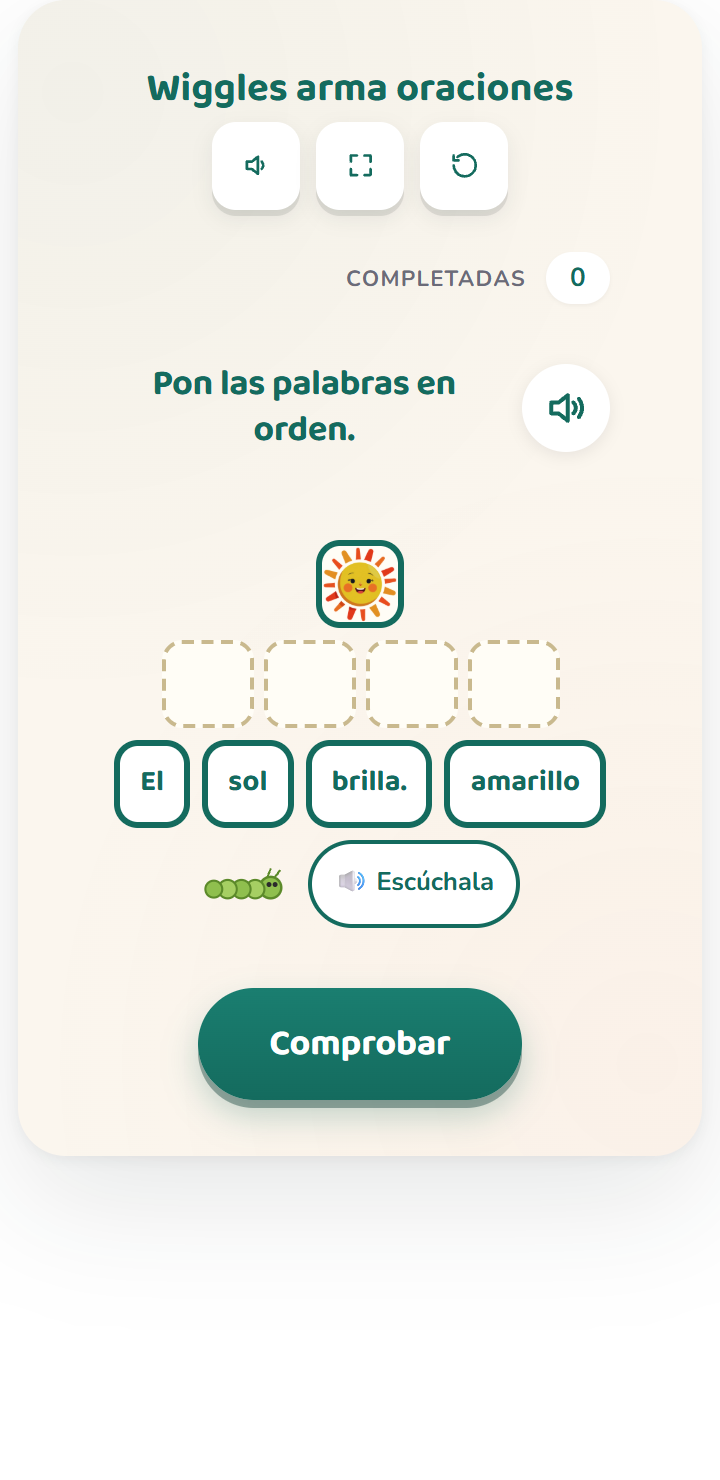
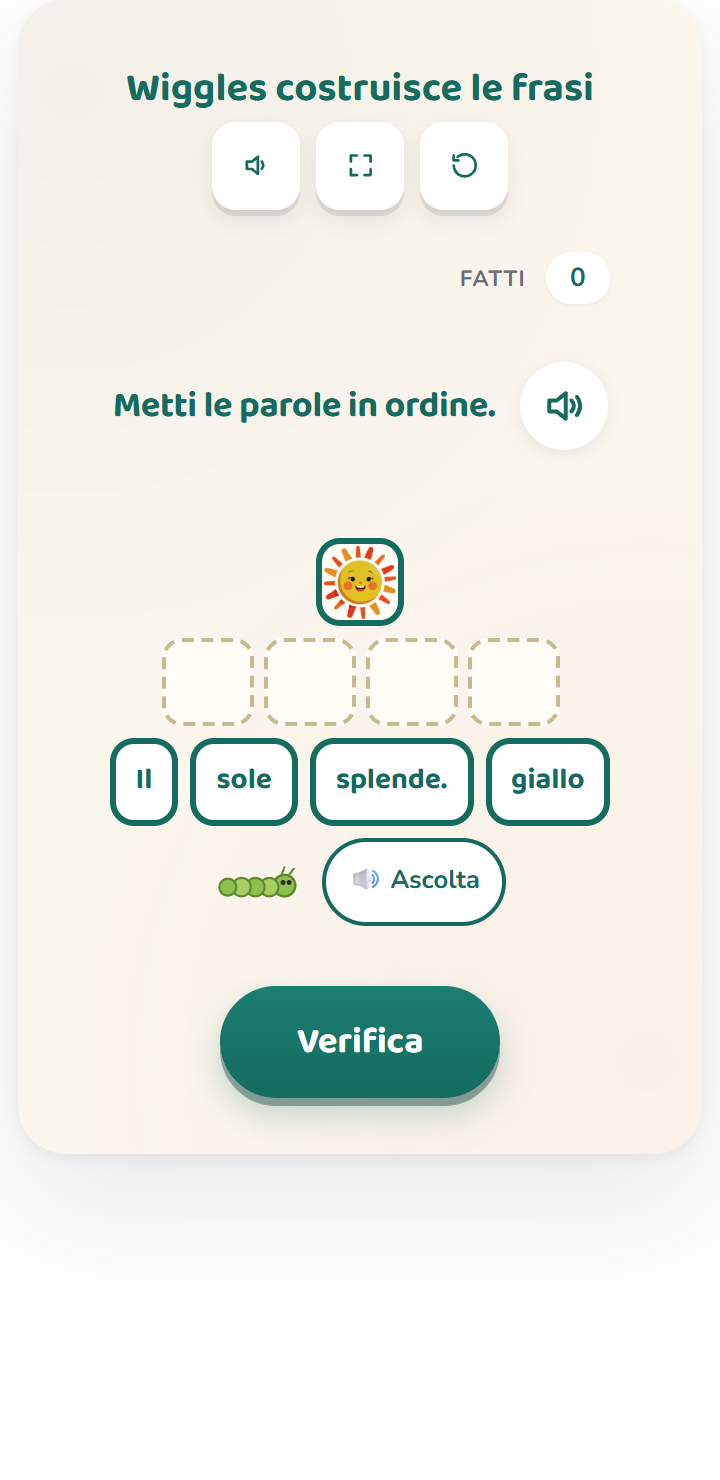
[FEATURE][I18N][IT] sentence-builder #23 — Wiggles costruisce le frasi (classe seconda)
Italian (it) second-batch fan-out #23 — sentence-builder.build-a-sentence.l-1-1-j,
the 3rd it LITERACY activity. Pure activity-layer fan-out over the existing
Sentence Builder engine (EN + de/es/fr/pt already live). Wiggles il bruco: the
child taps scrambled word-tiles into order to build a declarative sentence, then
Checks. Correct = placed order === canonical, DERIVED not stored.

Rebuilt for the Indicazioni nazionali (riflessione linguistica, classe seconda).
9 sentences, shape Articolo + Nome + Aggettivo + Verbo. (adjective AFTER the noun,
Romance order), node-eval GREEN (4 tiles, Il/La start, period on the verb).

⭐ Native it ensemble (K-3 pedagogue + linguist + SEO; pedagogue+linguist both 9/9):
- ENGINE-FORCED elision rule: tiles space-join, so «L'» + «autobus» would render
  «L' autobus» (wrong space). Every noun therefore takes a CLEAN full article
  (Il/La) — the bus is «Il pullman» (masc, clean Il, kid-known), NOT «L'autobus».
  Linguist confirmed the whole set is Lo/L'-free (sole→Il [s+vowel]; pesce→Il;
  fiore is masc→Il).
- pedagogue verb fix: bus «avanza» → «corre» (avanza too bureaucratic; corre vivid).
- gender agreement Articolo↔Nome↔Aggettivo correct throughout (giallo/bianca/rosso
  variable + agree; marrone/arancione/blu/verde/rosa/viola invariable); no adjacent
  color repeat; fiore correctly masc → «Il fiore viola».

GRADE = classe seconda (GRADE_OVERRIDE it:'2', mirrors de/fr/es/pt; systematic
[…]

diff --git a/frontend/app/[locale]/activities/[slug]/page.tsx b/frontend/app/[locale]/activities/[slug]/page.tsx
@@ -77,7 +77,7 @@ const GRADE_OVERRIDE: Record<string, Record<string, string>> = {
   'pond-juice.pour-measure.3-md-a-2': { de: '2', fr: '2', es: '2', pt: '2', it: '2' },      // Hohlmaße/Liter (whole-l 0-10, no ml) → DE Klasse 2 (ml/Umrechnung = Klasse 3); FR CE1 (le litre introduced CE1, mL/conversions = cycle 3); MX 2.º (el litro se introduce en 2.º; ml/conversiones = 3.º-4.º); PT 2º ano (o litro entra no 2º ano na BNCC EF02MA17 — estimar/medir/comparar capacidade; ml/conversões = 3º-4º); en Grade 3 unchanged. IT classe seconda: il litro / le misure di capacità (litri interi, leggere/stimare/confrontare, senza ml) = classe seconda nelle Indicazioni; ml/dl/cl, equivalenze, conversioni = classe terza-quarta. Strand Grandezas e medidas pelo auto-map (capacidade é grandeza pura) — SEM STRAND_OVERRIDE pt (it override a parte, sotto)
   'bundle-bot.bundle-machine.1-nbt-b-2-a': { de: '2', it: '2' },                   // two-digit Stellenwert (20-49, multiple tens) → DE Klasse 2 (Klasse 1 = ZR bis 20). IT classe SECONDA (pedagogue-decisive, GENUINE content boundary NOT the DE artifact): la classe 1ª italiana lavora i numeri ENTRO IL 20 (la decina si introduce proprio al confine, teens 11-19 = una decina + unità, AL PIÙ una decina); la classe 2ª = numeri entro il 100, valore posizionale (decine e unità, PLURALE), il cambio. bundle-bot costruisce 20-49 con 2-4 decine → classe seconda (coerente con #5 pv-regroup). Diverge da pt/es/fr (grado 1) per una ragione di CONTENUTO italiano, indipendente dall'artefatto tedesco. Chip → «Seconda elementare» (grade_2 it). en resta grado 1
   'tense.past-present-future.l-1-1-e': { de: '2', fr: '2', es: '2', pt: '2', it: '2' },     // Zeitformen 3-way contrast + werden-future → DE Klasse 2 (Klasse 1 = nur Gegenwart); FR CE1 (présent seul = CP, la conjugaison systématique imparfait+futur simple = attendu CE1). MX 2.º: el contraste sistemático presente/pretérito/futuro CON futuro = reflexión sobre la lengua de 2.º (en 1.º el verbo se usa de forma incidental); espeja de/fr. PT 2º ano: o contraste sistemático presente/pretérito/futuro (com futuro perifrástico "vão + inf") = flexão verbal de 2º ano na BNCC (em 1º o verbo é incidental); espelha es/fr/de. IT classe seconda: il contrasto sistematico presente/passato/futuro CON il futuro = riflessione linguistica di 2ª nelle Indicazioni nazionali (in 1ª il verbo si usa in modo incidentale; il passato = passato prossimo con avere, il tempo che un bimbo di 2ª usa davvero); rispecchia de/fr/es/pt. STRAND «Riflessione linguistica» auto (Language.it, registrato #20; NO override)
-  'sentence-builder.build-a-sentence.l-1-1-j': { de: '2', fr: '2', es: '2', pt: '2' },  // Satzbau/Wortreihenfolge reorder task → DE Klasse 2 (mastery by end of Klasse 2); FR CE1 (l'accord dans le groupe nominal — le chat noir — = attendu CE1, past CP word-order-only). MX 2.º: construcción de oraciones + orden de palabras + concordancia (el perro café / la flor roja) + mayúscula/punto = trabajo metalingüístico de 2.º (1.º es decodificación); espeja de/fr. PT 2º ano: construção de frases + ordem das palavras + concordância (o cachorro marrom / a flor roxa) + maiúscula/ponto = análise linguística de 2º ano (1º é decodificação); espelha es/fr/de
+  'sentence-builder.build-a-sentence.l-1-1-j': { de: '2', fr: '2', es: '2', pt: '2', it: '2' },  // Satzbau/Wortreihenfolge reorder task → DE Klasse 2 (mastery by end of Klasse 2); FR CE1 (l'accord dans le groupe nominal — le chat noir — = attendu CE1, past CP word-order-only). MX 2.º: construcción de oraciones + orden de palabras + concordancia (el perro café / la flor roja) + mayúscula/punto = trabajo metalingüístico de 2.º (1.º es decodificación); espeja de/fr. PT 2º ano: construção de frases + ordem das palavras + concordância (o cachorro marrom / a flor roxa) + maiúscula/ponto = análise linguística de 2º ano (1º é decodificação); espelha es/fr/de. IT classe seconda: costruzione della frase + ordine delle parole + concordanza articolo-nome-aggettivo (il cane marrone / il fiore viola) + maiuscola/punto = riflessione linguistica di 2ª nelle Indicazioni nazionali (in 1ª = decodifica); rispecchia de/fr/es/pt. STRAND «Riflessione linguistica» auto (Language.it, #20; NO override)
   'pronoun.case.l-1-1-d': { de: '3', fr: '3', es: '3', pt: '3' },                  // case-correct pronoun-form choice (er/ihn) → DE Klasse 3 (Fall-arbeit is Klasse 3/4); FR CE2 (les pronoms sujets = CE1, but the COD/object form me/te/le is the CE2 attendu — the activity's central difficulty). MX 3.º: los pronombres de sujeto son 2.º, pero el contraste sujeto/objeto-clítico (Mamá me ve) + posesivo es habilidad de 3.º (misma lógica que fr CE2/de Klasse 3); espeja de/fr. PT 3º ano: o contraste caso reto/oblíquo (Eu/Mim, me/eu) + possessivo é habilidade de 3º ano (EF35LP14 — pronomes como recurso coesivo); os pronomes de sujeito são 2º, mas o contraste de caso é 3º; espelha es/fr/de
   'olive-kind-of.category-attribute.l-1-5-b': { de: '2', fr: '2', es: '2', pt: '2' },  // Oberbegriff/Hyperonym abstraction → DE Klasse 2 (EN Grade 1 placement doesn't transfer); FR CE1 (catégoriser / le mot générique vs particulier = attendu CE1, réflexif, past CP naming). MX 2.º: subsumir un referente concreto en su término general (categorizar/agrupar) es competencia de 2.º NEM (1.º es nombrar concreto); espeja de/fr
   'vera-verb-match.be-agreement.l-1-1-c': { de: '2', fr: '2', es: '2', pt: '2' },  // reflective Subjekt-Verb-Kongruenz (bin/ist/sind) → DE Klasse 2 (K-1 kids speak it; the grammar task is Klasse 2); FR CE1 (l'accord sujet-verbe / conjuguer être au présent = attendu CE1, réflexif, past CP oral use); ES 2.º (concordancia sujeto-verbo con estar = reflexión metalingüística 2.º NEM; kids speak estoy/está/están at 1.º)
@@ -547,7 +547,7 @@ export default async function ActivityPage({ params }: { params: PageParams }) {
   // applied here to the iframe-loaded wrapper URL (the only un-busted
   // link in the activity-page → mini-tool chain). The wrapper reads
   // only `activity` / `lang` / `embed` params; `v` is harmless to it.
-  const ACTIVITY_WRAPPER_VERSION = '9.475';
+  const ACTIVITY_WRAPPER_VERSION = '9.476';
 
   const iframeSrc =
     `/mini-tools/${row.tool}.html?v=${ACTIVITY_WRAPPER_VERSION}` +

diff --git a/mini tools/sentence-builder-activity.js b/mini tools/sentence-builder-activity.js
@@ -53,6 +53,17 @@
       win: 'Você formou uma frase!',
       hintFill: 'Use todas as palavras — preencha todos os espaços.',
       hintOrder: 'Ainda não é uma frase — comece com a maiúscula (O ou A), termine com o ponto e deixe a frase com sentido.'
+    },
+    /* it (#23 fan-out — 3rd it literacy, Indicazioni nazionali «riflessione linguistica», classe seconda):
+       shape Articolo+Nome+Aggettivo+Verbo. (adjective AFTER the noun, Romance order); ⚠ every noun takes a CLEAN
+       full article Il/La — NO «L'» elision (tiles space-join → «L' autobus» would break) → bus = «Il pullman».
+       «...» caporali; praise gender-neutral. */
+    it: {
+      q: 'Metti le parole in ordine.',
+      hear: '🔊 Ascolta',
+      win: 'Hai costruito una frase!',
+      hintFill: 'Usa tutte le parole: riempi ogni casella.',
+      hintOrder: 'Comincia con la lettera maiuscola (Il o La), metti il punto alla fine e costruisci una frase che abbia senso.'
     }
   };
   function txt(k) { return (L[LANG] && L[LANG][k]) || L.en[k] || k; }
@@ -76,11 +87,11 @@
   var SentenceBuilderActivity = {
     id: 'sentence-builder-activity',
     strings: {
-      title: { en: "Wiggles' Sentence Builder", de: 'Wiggles baut Sätze', fr: 'Wiggles construit des phrases', es: 'Wiggles arma oraciones', pt: 'Wiggles Monta Frases' },
-      instruction: { en: 'Tap the words to put them in order and build a sentence.', de: 'Tippe die Wörter an und bringe sie in die richtige Reihenfolge, um einen Satz zu bauen.', fr: 'Touche les mots et mets-les dans le bon ordre pour construire une phrase.', es: 'Toca las palabras para ponerlas en orden y armar una oración.', pt: 'Toque nas palavras para colocá-las em ordem e formar uma frase.' },
-      q: { en: '{q}', de: '{q}', fr: '{q}', es: '{q}', pt: '{q}' },
-      hintFill: { en: 'Use all the words — fill every box.', de: 'Nutze alle Wörter – fülle jedes Feld.', fr: 'Utilise tous les mots — remplis chaque case.', es: 'Usa todas las palabras: llena todas las casillas.', pt: 'Use todas as palavras — preencha todos os espaços.' },
-      hintOrder: { en: 'Not a sentence yet — start with the capital word, end with the period, and make it make sense.', de: 'Noch kein Satz – fang mit Der, Die oder Das an, setze den Punkt ans Ende und bau einen sinnvollen Satz.', fr: 'Ce n’est pas encore une phrase — commence par « Le » ou « La », mets le point à la fin, et fais une phrase qui a du sens.', es: 'Todavía no es una oración: empieza con El o La, pon el punto al final, y arma una oración que tenga sentido.', pt: 'Ainda não é uma frase — comece com a maiúscula (O ou A), termine com o ponto e deixe a frase com sentido.' }
+      title: { en: "Wiggles' Sentence Builder", de: 'Wiggles baut Sätze', fr: 'Wiggles construit des phrases', es: 'Wiggles arma oraciones', pt: 'Wiggles Monta Frases', it: 'Wiggles costruisce le frasi' },
+      instruction: { en: 'Tap the words to put them in order and build a sentence.', de: 'Tippe die Wörter an und bringe sie in die richtige Reihenfolge, um einen Satz zu bauen.', fr: 'Touche les mots et mets-les dans le bon ordre pour construire une phrase.', es: 'Toca las palabras para ponerlas en orden y armar una oración.', pt: 'Toque nas palavras para colocá-las em ordem e formar uma frase.', it: 'Tocca le parole per metterle in ordine e costruire una frase.' },
+      q: { en: '{q}', de: '{q}', fr: '{q}', es: '{q}', pt: '{q}', it: '{q}' },
+      hintFill: { en: 'Use all the words — fill every box.', de: 'Nutze alle Wörter – fülle jedes Feld.', fr: 'Utilise tous les mots — remplis chaque case.', es: 'Usa todas las palabras: llena todas las casillas.', pt: 'Use todas as palavras — preencha todos os espaços.', it: 'Usa tutte le parole: riempi ogni casella.' },
+      hintOrder: { en: 'Not a sentence yet — start with the capital word, end with the period, and make it make sense.', de: 'Noch kein Satz – fang mit Der, Die oder Das an, setze den Punkt ans Ende und bau einen sinnvollen Satz.', fr: 'Ce n’est pas encore une phrase — commence par « Le » ou « La », mets le point à la fin, et fais une phrase qui a du sens.', es: 'Todavía no es una oración: empieza con El o La, pon el punto al final, y arma una oración que tenga sentido.', pt: 'Ainda não é uma frase — comece com a maiúscula (O ou A), termine com o ponto e deixe a frase com sentido.', it: 'Comincia con la lettera maiuscola (Il o La), metti il punto alla fine e costruisci una frase che abbia senso.' }
     },
 
     init: function (api) {
@@ -259,6 +270,8 @@
         ? ('Arma una oración. Las palabras son: ' + this._tiles.join(', ') + '.')
         : LANG === 'pt'
         ? ('Monte uma frase. As palavras são: ' + this._tiles.join(', ') + '.')
+        : LANG === 'it'
+        ? ('Costruisci una frase. Le parole sono: ' + this._tiles.join(', ') + '.')
         : ('Build a sentence. The words are: ' + this._tiles.join(', ') + '.');
       wrap.innerHTML = '<p>' + msg + '</p>';
       return wrap;

diff --git a/mini tools/sentence-builder-activity.html b/mini tools/sentence-builder-activity.html
@@ -17,7 +17,7 @@
        NOTE: bump ?v=N on EVERY change to sentence-builder-activity.js / -core.js (§A.13.42). -->
   <script src="/mini-tools/lcs-shell.js?v=5"></script>
   <script src="/mini-tools/sentence-builder-core.js?v=1"></script>
-  <script src="/mini-tools/sentence-builder-activity.js?v=5"></script>
+  <script src="/mini-tools/sentence-builder-activity.js?v=6"></script>
   <script>
     LCS.mount(SentenceBuilderActivity, { mount: '#lcs-root' });
   </script>
